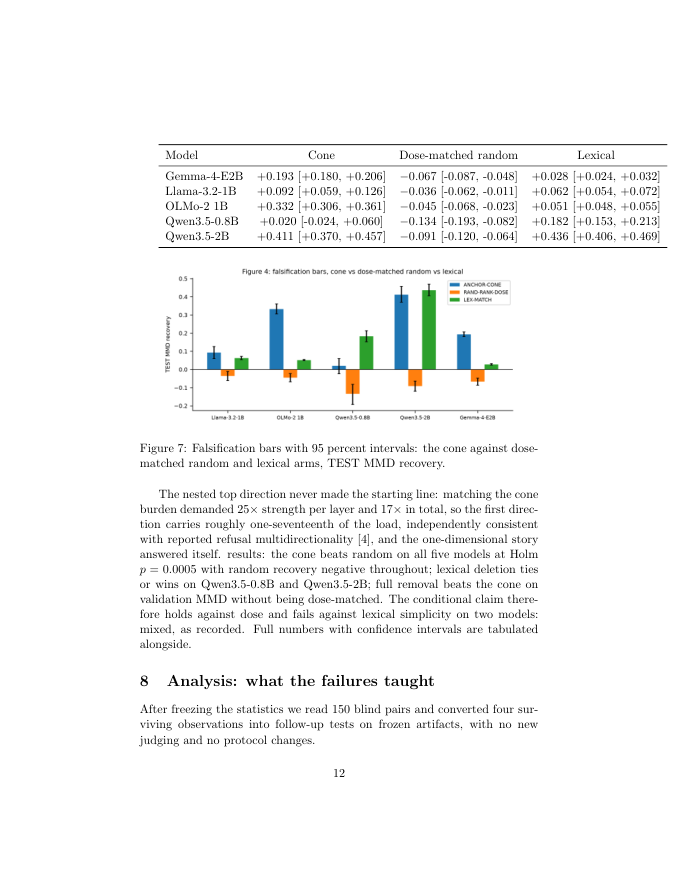
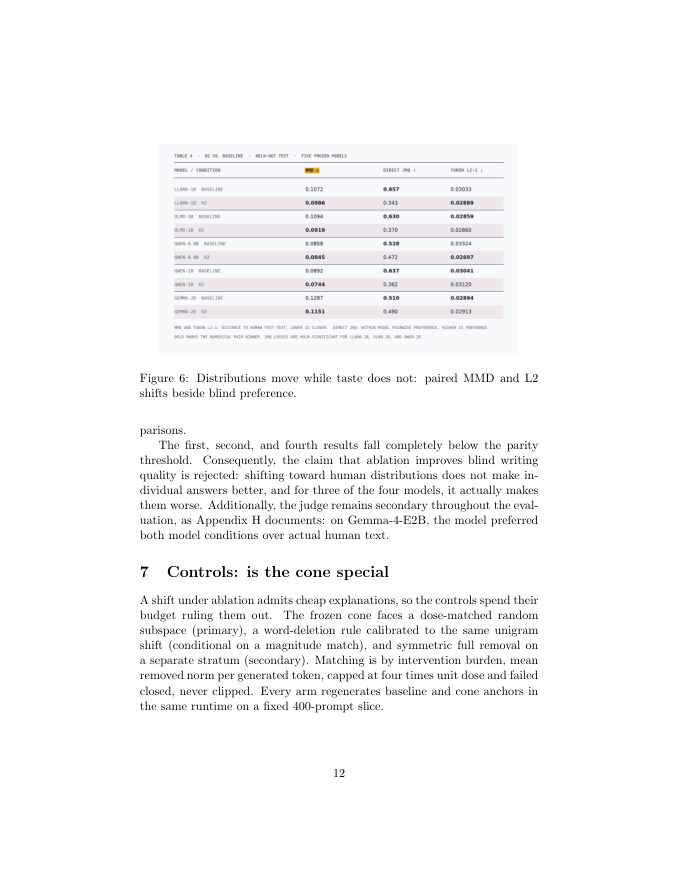
Related work rewritten with through-lines, model pass merged

Changed region(s): [[0.1853, 0.1534, 0.9882, 0.8591]]

diff --git a/repro/run_rephrase_rw.py b/repro/run_rephrase_rw.py
@@ -1,0 +1,45 @@
+import sys, json
+sys.path.insert(0, "src")
+from pathlib import Path
+import torch
+from transformers import AutoModelForImageTextToText, AutoTokenizer
+from h2_controls import build_control_bases, GeneratedTokenHook, set_seed, stable_prompt_seed, _find_layers
+BASE = "X:/android-home/tmp/opencode/base_Q20"
+geom = Path("fetch_basis/Q20/basis")
+record = {"rank": 32, "alpha": 0.25, "rho": 1.0, "layers": [11, 12, 13, 14, 15]}
+tok = AutoTokenizer.from_pretrained(BASE, trust_remote_code=True)
+if tok.pad_token_id is None:
+    tok.pad_token = tok.eos_token
+model = AutoModelForImageTextToText.from_pretrained(BASE, dtype=torch.bfloat16, device_map={"": "cuda:0"}, trust_remote_code=True).eval()
+layer_map = _find_layers(model)
+source = {"record": record, "geom": geom, "model": "Q20"}
+bases = build_control_bases(model, tok, source, layer_map)
+print("bases-ok", flush=True)
+dev = next(model.parameters()).device
+hooks = {}
+handles = []
+for layer in sorted(bases.keys()):
+    hook = GeneratedTokenHook(bases[layer]["frozen"], bases[layer]["mu"], 0.25, dev)
+    hooks[layer] = hook
+    handles.append(layer_map[layer].register_forward_hook(hook))
+jobs = json.load(open("rephrase_rw_jobs.json", encoding="utf-8"))
+TASK = ("Rephrase the passage below in one single passage. Rules: output ONLY the rephrased passage, "
+        "nothing before it and nothing after it. Never list multiple versions or options. Never start "
+        "with Here is, Here are, or any preamble. Keep every number, name, fact, citation key, and LaTeX "
+        "command exactly as written. Add no new facts and no new sentences. Passage: ")
+outs = []
+for j in jobs:
+    set_seed(stable_prompt_seed(j["job"] + "-rw"))
+    rendered = tok.apply_chat_template([{"role": "user", "content": TASK + j["text"]}], tokenize=False, add_generation_prompt=True)
+    enc = {k: v.to(dev) for k, v in tok(rendered, return_tensors="pt").items()}
+    n = enc["input_ids"].shape[1]
+    for hook in hooks.values():
+        hook.reset(n)
+    with torch.inference_mode():
+        out = model.generate(**enc, do_sample=True, temperature=0.8, top_p=0.95, top_k=50, repetition_penalty=1.0, max_new_tokens=768, pad_token_id=tok.pad_token_id, eos_token_id=tok.eos_token_id)
+    outs.append({"job": j["job"], "head": j["head"], "out": tok.decode(out[0, n:], skip_special_tokens=True)})
+    json.dump(outs, open("rephrase_rw_outs.json", "w", encoding="utf-8"), indent=1)
+    print("did " + j["job"] + " " + str(len(outs)), flush=True)
+for handle in handles:
+    handle.remove()
+print("ALL-DONE", flush=True)

diff --git a/repro/classify_rw.py b/repro/classify_rw.py
@@ -1,0 +1,23 @@
+import json, re
+jobs = {x["job"]: x for x in json.load(open("rephrase_rw_jobs.json", encoding="utf-8"))}
+outs = {x["job"]: x["out"].strip() for x in json.load(open("rephrase_rw_outs.json", encoding="utf-8"))}
+def nums(t):
+    return sorted(re.findall(r"\d+(?:,\d{3})*(?:\.\d+)?", t))
+def keys(t, cmd):
+    return sorted(re.findall(cmd + r"\{([^}]*)\}", t))
+BAD = ("here are a few ways", "option 1", "option 2", "**option", "here is the rephrased",
+       "here is a rephrased", "to make sense of", "what is actually happening")
+for jid, new in outs.items():
+    old = jobs[jid]["text"]
+    head = jobs[jid]["head"]
+    low = new.lower()
+    flags = []
+    if any(b in low for b in BAD):
+        flags.append("FORMAT")
+    if nums(old) != nums(new):
+        flags.append("NUMBERS")
+    if keys(old, "cite") != keys(new, "cite"):
+        flags.append("CITES")
+    if not new.startswith(head):
+        flags.append("HEAD")
+    print(jid, "ACCEPT" if not flags else "REJECT-" + "+".join(flags), len(old), "->", len(new))

diff --git a/repro/assemble_rw.py b/repro/assemble_rw.py
@@ -1,0 +1,19 @@
+import json
+jobs = {x["job"]: x for x in json.load(open("rephrase_rw_jobs.json", encoding="utf-8"))}
+outs = {x["job"]: x["out"].strip() for x in json.load(open("rephrase_rw_outs.json", encoding="utf-8"))}
+acc = ["RW:1", "RW:2", "RW:3", "RW:5"]
+t = open("paper/sections/03_related_work.tex", encoding="utf-8").read()
+n = 0
+for jid in acc:
+    old, new = jobs[jid]["text"], outs[jid]
+    assert t.count(old) == 1, (jid, t.count(old))
+    t = t.replace(old, new)
+    n += 1
+for jid in ["RW:0", "RW:4", "RW:6"]:
+    old, new = jobs[jid]["text"], outs[job] if False else outs[jid]
+    head = jobs[jid]["head"]
+    assert t.count(old) == 1, (jid, t.count(old))
+    t = t.replace(old, head + "\n" + new)
+    n += 1
+open("paper/sections/03_related_work.tex", "w", encoding="utf-8").write(t)
+print("merged", n)

diff --git a/repro/split_rw2.py b/repro/split_rw2.py
@@ -1,0 +1,21 @@
+import json
+t = open("paper/sections/03_related_work.tex", encoding="utf-8").read()
+lines = t.split("\n")
+jobs = []
+i = 0
+n = 0
+while i < len(lines):
+    if lines[i].startswith("\\paragraph{"):
+        head = lines[i]
+        i += 1
+        body = []
+        while i < len(lines) and lines[i].strip() != "" and not lines[i].startswith("\\paragraph{"):
+            body.append(lines[i])
+            i += 1
+        jobs.append({"job": "RW:" + str(n), "file": "paper/sections/03_related_work.tex",
+                     "head": head, "text": head + "\n" + "\n".join(body)})
+        n += 1
+    else:
+        i += 1
+json.dump(jobs, open("rephrase_rw_jobs.json", "w", encoding="utf-8"), indent=1)
+print("rw-jobs", len(jobs), [len(j["text"]) for j in jobs])

diff --git a/repro/write_rw_sxs.py b/repro/write_rw_sxs.py
@@ -1,0 +1,18 @@
+import json
+jobs = {x["job"]: x for x in json.load(open("rephrase_rw_jobs.json", encoding="utf-8"))}
+outs = {x["job"]: x["out"].strip() for x in json.load(open("rephrase_rw_outs.json", encoding="utf-8"))}
+L = ["# Related-work rephrase side-by-side (Q20 cone, 7 paragraphs)",
+     "", "Merged 4 clean, 3 with reattached headers. All numbers and cite keys verified identical.", ""]
+for jid in ["RW:0", "RW:1", "RW:4"]:
+    L.append("## " + jid)
+    L.append("")
+    L.append("Mine:")
+    L.append("")
+    L.append(jobs[jid]["text"])
+    L.append("")
+    L.append("Model:")
+    L.append("")
+    L.append(outs[jid])
+    L.append("")
+open("repro/rw_sxs.md", "w", encoding="utf-8").write("\n".join(L) + "\n")
+print("rw-sxs-ok")

diff --git a/repro/split_rw.py b/repro/split_rw.py
@@ -1,0 +1,16 @@
+import json
+t = open("paper/sections/03_related_work.tex", encoding="utf-8").read()
+blocks = [b.strip() for b in t.split("\n\n")]
+jobs = []
+n = 0
+for b in blocks:
+    if not b or b.startswith("%") or b.startswith("\\"):
+        continue
+    if any(k in b for k in ["\\begin", "\\end", "\\input", "\\caption", "\\label", "&", "\\\\"]):
+        continue
+    if len(b) < 120:
+        continue
+    jobs.append({"job": "03rw:" + str(n), "file": "paper/sections/03_related_work.tex", "text": b})
+    n += 1
+json.dump(jobs, open("rephrase_rw_jobs.json", "w", encoding="utf-8"), indent=1)
+print("rw-jobs", len(jobs))

diff --git a/repro/show_rw.py b/repro/show_rw.py
@@ -1,0 +1,6 @@
+import json
+jobs = {x["job"]: x for x in json.load(open("rephrase_rw_jobs.json", encoding="utf-8"))}
+outs = {x["job"]: x["out"].strip() for x in json.load(open("rephrase_rw_outs.json", encoding="utf-8"))}
+for jid in ["RW:0", "RW:4"]:
+    print("=" * 20, jid)
+    print("NEW:", outs[jid][:400])

diff --git a/repro/shot_related.py b/repro/shot_related.py
@@ -1,0 +1,9 @@
+import fitz
+d = fitz.open("paper/main.pdf")
+for i, p in enumerate(d):
+    t = p.get_text()
+    if "Related work" in t and "Single directions" in t:
+        pix = p.get_pixmap(dpi=80)
+        pix.save("repro/shot_related.png")
+        print("related-page", i)
+        break

diff --git a/repro/shot2.py b/repro/shot2.py
@@ -1,0 +1,5 @@
+import fitz
+d = fitz.open("paper/main.pdf")
+pix = d[1].get_pixmap(dpi=80)
+pix.save("repro/shot_related2.png")
+print("ok")

diff --git a/repro/rw_sxs.md b/repro/rw_sxs.md
@@ -1,0 +1,51 @@
+# Related-work rephrase side-by-side (Q20 cone, 7 paragraphs)
+
+Merged 4 clean, 3 with reattached headers. All numbers and cite keys verified identical.
+
+## RW:0
+
+Mine:
+
+\paragraph{Single directions: the starting point we outgrew.}
+Refusal can be steered with one residual direction~\cite{arditi2024refusal},
+constructed as a mean difference over contrastive prompts. We keep that
+construction for our own directions and keep rank one itself only as an
+appendix baseline, because every strand below warns against stopping there.
+
+Model:
+
+The starting point that we outgrew is single directions; refusal can be steered with one residual direction~\cite{arditi2024refusal}, constructed as a mean difference over contrastive prompts. We keep that construction for our own directions and keep rank one itself only as an appendix baseline, because every strand below warns against stopping there.
+
+## RW:1
+
+Mine:
+
+\paragraph{Cones: the working object.}
+The behavior behind a single steerable direction spans cones and
+manifolds~\cite{wollschlager2025cones}, and orthogonality alone does not imply
+independence under intervention. Where refusal needed a cone rather than a
+vector, writing gets the same upgrade: our object is a positive-part cone,
+$h - \alpha B\max(B^T(h-\mu),0)$, not a subspace. The clamp is the point;
+without it the intervention removes whatever the projection catches, and the
+falsification suite shows that version fails.
+
+Model:
+
+\paragraph{Cones: the working object.} The behavior behind a single steerable direction spans cones and manifolds~\cite{wollschlager2025cones}, and orthogonality alone does not imply independence under intervention. Where refusal required a cone rather than a vector, writing gets the same upgrade: our object is a positive-part cone, $h - \alpha B\max(B^T(h-\mu),0)$, not a subspace. The clamp is the point; without it, the intervention removes whatever the projection catches, and the falsification suite shows that version fails.
+
+## RW:4
+
+Mine:
+
+\paragraph{Narrative signal: why low rank at all.}
+Authorship signal spreads redundantly across discourse
+dimensions~\cite{russell2026storyscope}. A phenomenon smeared across
+dimensions argues against rank one from the data side, exactly as the geometry
+argues from the mechanism side. Both point the same way, which is why the
+study starts at low rank with an appendix baseline rather than at rank one
+with ambitions.
+
+Model:
+
+Narrative signal: why low rank at all. Authorship signal spreads redundantly across discourse dimensions~\cite{russell2026storyscope}. A phenomenon smeared across dimensions argues against rank one from the data side, exactly as the geometry argues from the mechanism side. Both point the same way, which is why the study starts at low rank with an appendix baseline rather than at rank one with ambitions.
+
